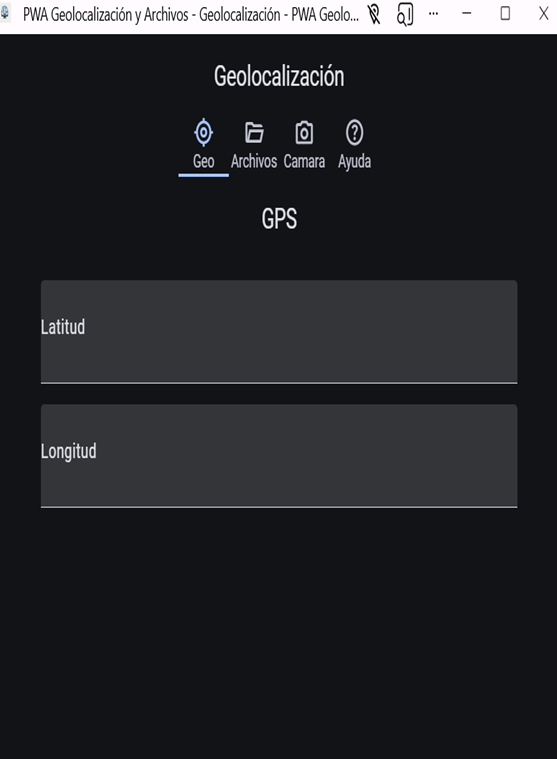
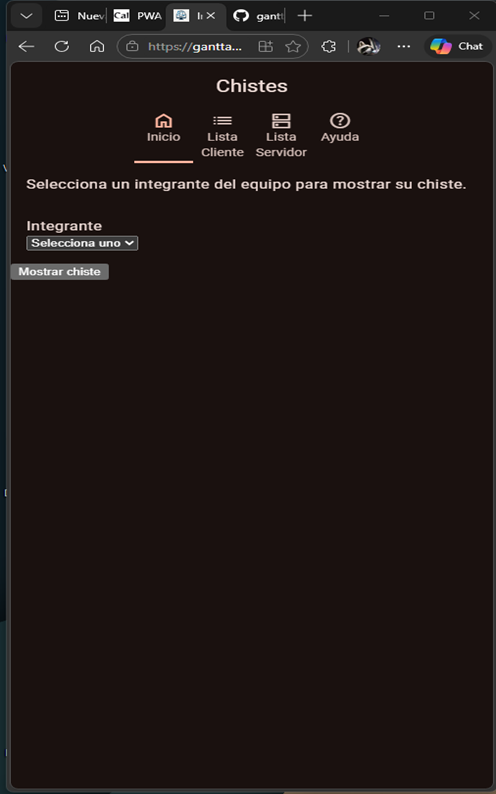
1.06

diff --git a/sw.js b/sw.js
@@ -15,7 +15,7 @@
  * conoce como número menor y se cambia cuando se realizan
  * modificaciones menores.
  */
-const VERSION = "1.05"
+const VERSION = "1.06"
 
 /**
  * Nombre de la carpeta de caché.
